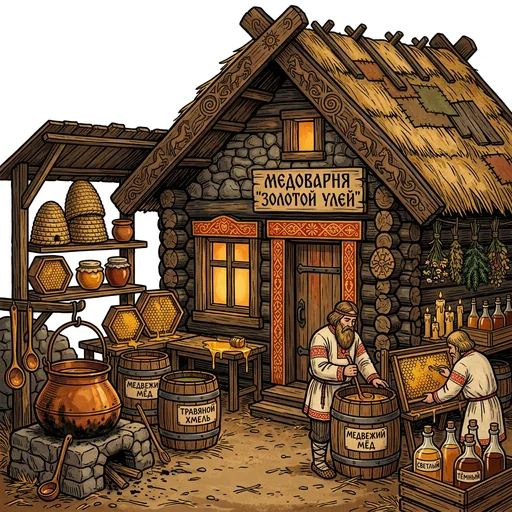
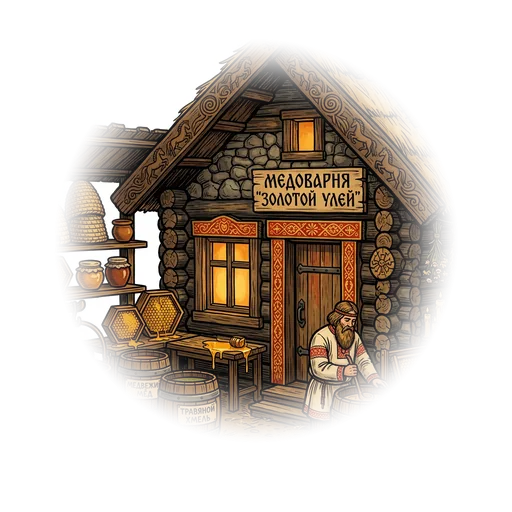
redesign(miniapp): пристройки → «Двор таверны» (изометрическая россыпь)
Вместо списка — двор: 9 домиков расставлены изометрической россыпью на
тёплой пергаментной земле, соединены тропинками-пунктиром. Над каждым
парит статус-флажок: «🔔 готово» (светится), «⚙ время» (работа),
«⏳ время» (стройка), «свободна», «построить», «🔒». Заперты — серым.
Тап по домику открывает деталь/производство.

mill и meadery были цельными сценами с пергаментной рамкой (не спрайты) —
запёк эллиптическую виньетку в альфу, теперь «проявляются» из тени как
остальные. На все арты — мягкая edge-маска для единого парящего вида.

diff --git a/miniapp/src/index.css b/miniapp/src/index.css
@@ -431,31 +431,42 @@ body {
 .spin { width:34px; height:34px; border:3px solid #ffffff22; border-top-color:var(--gold); border-radius:50%; animation:spin .8s linear infinite; }
 @keyframes spin { to { transform:rotate(360deg); } }
 
-/* ── Пристройки + производство (тихий список) ── */
-.scr { display:flex; flex-direction:column; gap:14px; }
-.bld-head h2 { font-family:var(--disp); font-size:20px; letter-spacing:1.5px; color:var(--parch); margin:4px 0 0; font-weight:700; }
+/* ── Пристройки: двор таверны (изометрическая россыпь) ── */
+.scr { display:flex; flex-direction:column; gap:10px; }
+.yard-head { display:flex; align-items:baseline; gap:10px; }
+.yard-head h2 { font-family:var(--disp); font-size:20px; letter-spacing:1.5px; color:var(--parch); margin:4px 0 0; font-weight:700; }
+.yard-head .muted { font-family:var(--text); font-size:12px; font-style:italic; }
 
-/* список без коробок — строки через волосяные линии */
-.bld-list { display:flex; flex-direction:column; }
-.bld-row { display:flex; align-items:center; gap:13px; width:100%; padding:11px 2px; cursor:pointer;
-  background:none; border:none; border-bottom:1px solid #3a2c1466; color:var(--parch);
-  text-align:left; transition:background .12s, opacity .12s; }
-.bld-row:first-child { border-top:1px solid #3a2c1466; }
-.bld-row:active { background:#ffffff08; }
-.bld-row.off { opacity:.5; }
-.br-art { width:46px; height:46px; object-fit:contain; flex:0 0 auto; filter:drop-shadow(0 1px 3px #000a); }
-.bld-row.off .br-art { filter:grayscale(.9) brightness(.7); }
-.br-name { flex:1; min-width:0; font-family:var(--disp); font-size:15px; font-weight:700; letter-spacing:.3px; }
-.br-st { display:inline-flex; align-items:center; gap:7px; font-family:var(--text); font-size:12.5px;
-  color:var(--dim); white-space:nowrap; }
-.dot { width:7px; height:7px; border-radius:50%; flex:0 0 auto; background:var(--dim); }
-.dot.rdy { background:var(--gold-2); box-shadow:0 0 0 0 #e7bf6355; animation:dot-pulse 1.5s ease-in-out infinite; }
-@keyframes dot-pulse { 0%,100%{box-shadow:0 0 0 0 #e7bf6300} 50%{box-shadow:0 0 7px 1px #e7bf6388} }
-.dot.work { background:var(--gold); }
-.dot.idle { background:var(--green); }
-.dot.avail { background:none; border:1.5px solid var(--dim); width:8px; height:8px; }
-.dot.lock { background:#5a4a30; }
-.bld-row.off .br-st { color:#9a7d4f; }
+.yard { position:relative; border-radius:16px; overflow:hidden;
+  background:radial-gradient(125% 75% at 50% 28%, #30200d 0%, #1d1308 52%, #0c0703 100%);
+  box-shadow:inset 0 0 60px #0009, inset 0 1px 0 #ffffff10; }
+.yard-paths { position:absolute; inset:0; width:100%; height:100%; pointer-events:none; }
+.yard-paths path { fill:none; stroke:#6a4f24; stroke-width:2.4; stroke-dasharray:1 7;
+  stroke-linecap:round; opacity:.45; }
+
+.yb { position:absolute; width:96px; display:flex; flex-direction:column; align-items:center; gap:1px;
+  background:none; border:none; padding:0; cursor:pointer; }
+.yb img { width:90px; height:90px; object-fit:contain; filter:drop-shadow(0 8px 5px #000b); transition:transform .12s;
+  -webkit-mask-image:radial-gradient(ellipse 74% 74% at 50% 46%, #000 72%, transparent 90%);
+  mask-image:radial-gradient(ellipse 74% 74% at 50% 46%, #000 72%, transparent 90%); }
+.yb:active img { transform:translateY(2px) scale(.96); }
+.yb.off img { filter:grayscale(.85) brightness(.6) drop-shadow(0 8px 5px #000b); }
+.yb-name { font-family:var(--disp); font-size:11px; font-weight:700; letter-spacing:.2px; color:var(--parch);
+  text-shadow:0 1px 4px #000, 0 0 3px #000; margin-top:-4px; }
+.yb.off .yb-name { color:#9a855c; }
+
+.yb-badge { position:absolute; top:-7px; left:50%; transform:translateX(-50%); z-index:2;
+  display:inline-flex; align-items:center; gap:3px; white-space:nowrap;
+  font-family:var(--disp); font-size:9.5px; font-weight:700; letter-spacing:.3px;
+  padding:2px 8px; border-radius:20px; box-shadow:0 2px 7px #000a; }
+.yb-i { font-style:normal; font-size:9px; }
+.yb-badge.rdy { background:linear-gradient(var(--gold-2),#cf9a3c); color:#3a2600;
+  animation:badge-glow 1.5s ease-in-out infinite; }
+@keyframes badge-glow { 0%,100%{box-shadow:0 2px 7px #000a} 50%{box-shadow:0 2px 7px #000a,0 0 11px 2px #e7bf63aa} }
+.yb-badge.work { background:#2a2010; color:var(--gold); border:1px solid #6a5022; }
+.yb-badge.avail { background:#221a0c; color:#cdb68a; border:1px dashed #6a5226; }
+.yb-badge.lock { background:#221a0c; color:#9a7d4f; border:1px solid #4a3a22; padding:2px 7px; }
+.yb-badge.idle { background:#16210f; color:var(--green); border:1px solid #3f5a2c; }
 
 /* деталь — плоско, без коробок */
 .bd-art { width:128px; height:128px; object-fit:contain; display:block; margin:0 auto 10px;

diff --git a/miniapp/src/screens/Buildings.tsx b/miniapp/src/screens/Buildings.tsx
@@ -94,15 +94,25 @@ function statusOf(prod: ProdState, rem: string): string {
   return '😴 Простаивает — выбери, что готовить.'
 }
 
-// статус строки списка → точка (цвет) + подпись. Приоритет: готово к сбору
-function rowStatus(b: BItem): { dot: string; label: string } {
-  if (b.status === 'building') return { dot: 'work', label: `строится · ${hm(b.minutes)}` }
-  if (b.status === 'locked') return { dot: 'lock', label: b.lock || 'заперто' }
-  if (b.status === 'available') return { dot: 'avail', label: 'можно построить' }
+// расстановка домиков во дворе (изометрическая россыпь): left% / top px / глубина
+const YARD: Record<string, { x: number; y: number; z: number }> = {
+  brewery: { x: 50, y: 4, z: 2 }, mill: { x: 4, y: 30, z: 3 },
+  meadery: { x: 27, y: 118, z: 4 }, winery: { x: 52, y: 150, z: 4 },
+  kitchen: { x: 2, y: 184, z: 5 }, smelter: { x: 28, y: 270, z: 6 },
+  smokehouse: { x: 53, y: 300, z: 6 }, bakery: { x: 3, y: 338, z: 7 },
+  dairy: { x: 29, y: 430, z: 8 },
+}
+const YARD_H = 540
+
+// парящий статус-флажок над домиком. Приоритет: готово к сбору
+function yardBadge(b: BItem): { cls: string; label: string; icon: string } | null {
+  if (b.status === 'building') return { cls: 'work', label: hm(b.minutes), icon: '⏳' }
+  if (b.status === 'locked') return { cls: 'lock', label: '', icon: '🔒' }
+  if (b.status === 'available') return { cls: 'avail', label: 'построить', icon: '' }
   const ps = b.prod?.state
-  if (ps === 'ready') return { dot: 'rdy', label: 'готово к сбору' }
-  if (ps === 'active') return { dot: 'work', label: `идёт работа · ${hm(b.prod!.minutes)}` }
-  return { dot: 'idle', label: 'свободна' }
+  if (ps === 'ready') return { cls: 'rdy', label: 'готово', icon: '🔔' }
+  if (ps === 'active') return { cls: 'work', label: hm(b.prod!.minutes), icon: '⚙' }
+  return { cls: 'idle', label: 'свободна', icon: '' }
 }
 
 // иконка выхода/склада: товар → GoodIcon, сырьё/полуфабрикат → ResIcon
@@ -277,21 +287,26 @@ export default function Buildings() {
     </div>
   )
 
-  // ── Список пристроек (тихий список) ───────────────────────────────────
+  // ── Двор таверны (изометрическая россыпь домиков) ─────────────────────
   return (
     <div className="scr">
       {toast && <div className="toast">{toast}</div>}
-      <div className="bld-head"><h2>Пристройки</h2></div>
+      <div className="yard-head"><h2>Двор</h2><span className="muted">тапни по постройке</span></div>
 
-      <div className="bld-list">
+      <div className="yard" style={{ minHeight: YARD_H + 70 }}>
+        <svg className="yard-paths" viewBox={`0 0 100 ${YARD_H}`} preserveAspectRatio="none" aria-hidden="true">
+          <path d="M17 78 L15 232 L41 318 L18 386 L42 478" />
+          <path d="M63 52 L40 166 L65 198 L66 348 L42 478" />
+        </svg>
         {d.list.map((b) => {
-          const st = rowStatus(b)
+          const p = YARD[b.id]; const bd = yardBadge(b)
           return (
-            <button key={b.id} className={`bld-row ${b.status === 'locked' ? 'off' : ''}`} onClick={() => openBuilding(b)}>
-              <img className="br-art" src={art(b.id)} alt="" loading="lazy"
+            <button key={b.id} className={`yb ${b.status === 'locked' ? 'off' : ''}`}
+              style={{ left: `${p.x}%`, top: p.y, zIndex: p.z }} onClick={() => openBuilding(b)}>
+              {bd && <span className={`yb-badge ${bd.cls}`}>{bd.icon && <i className="yb-i">{bd.icon}</i>}{bd.label}</span>}
+              <img src={art(b.id)} alt="" loading="lazy"
                 onError={(e) => { e.currentTarget.style.visibility = 'hidden' }} />
-              <span className="br-name">{b.name}</span>
-              <span className="br-st"><i className={`dot ${st.dot}`} />{st.label}</span>
+              <span className="yb-name">{b.name}</span>
             </button>
           )
         })}